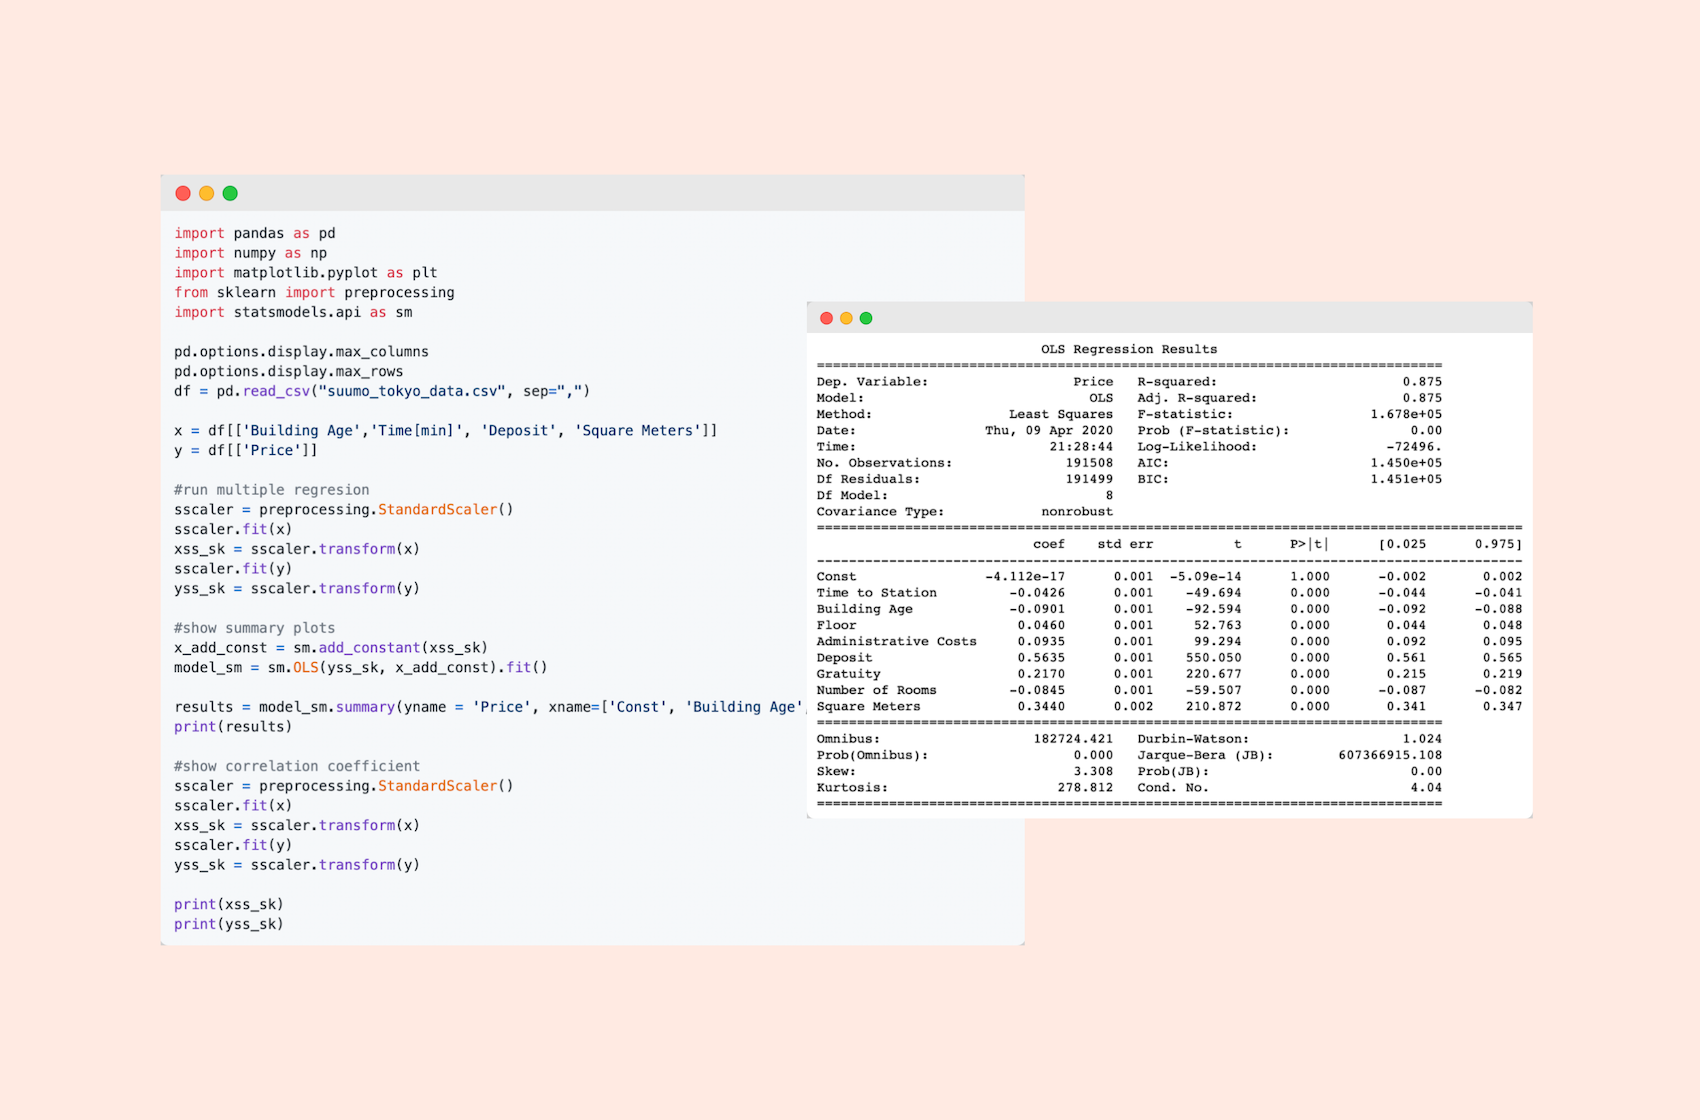
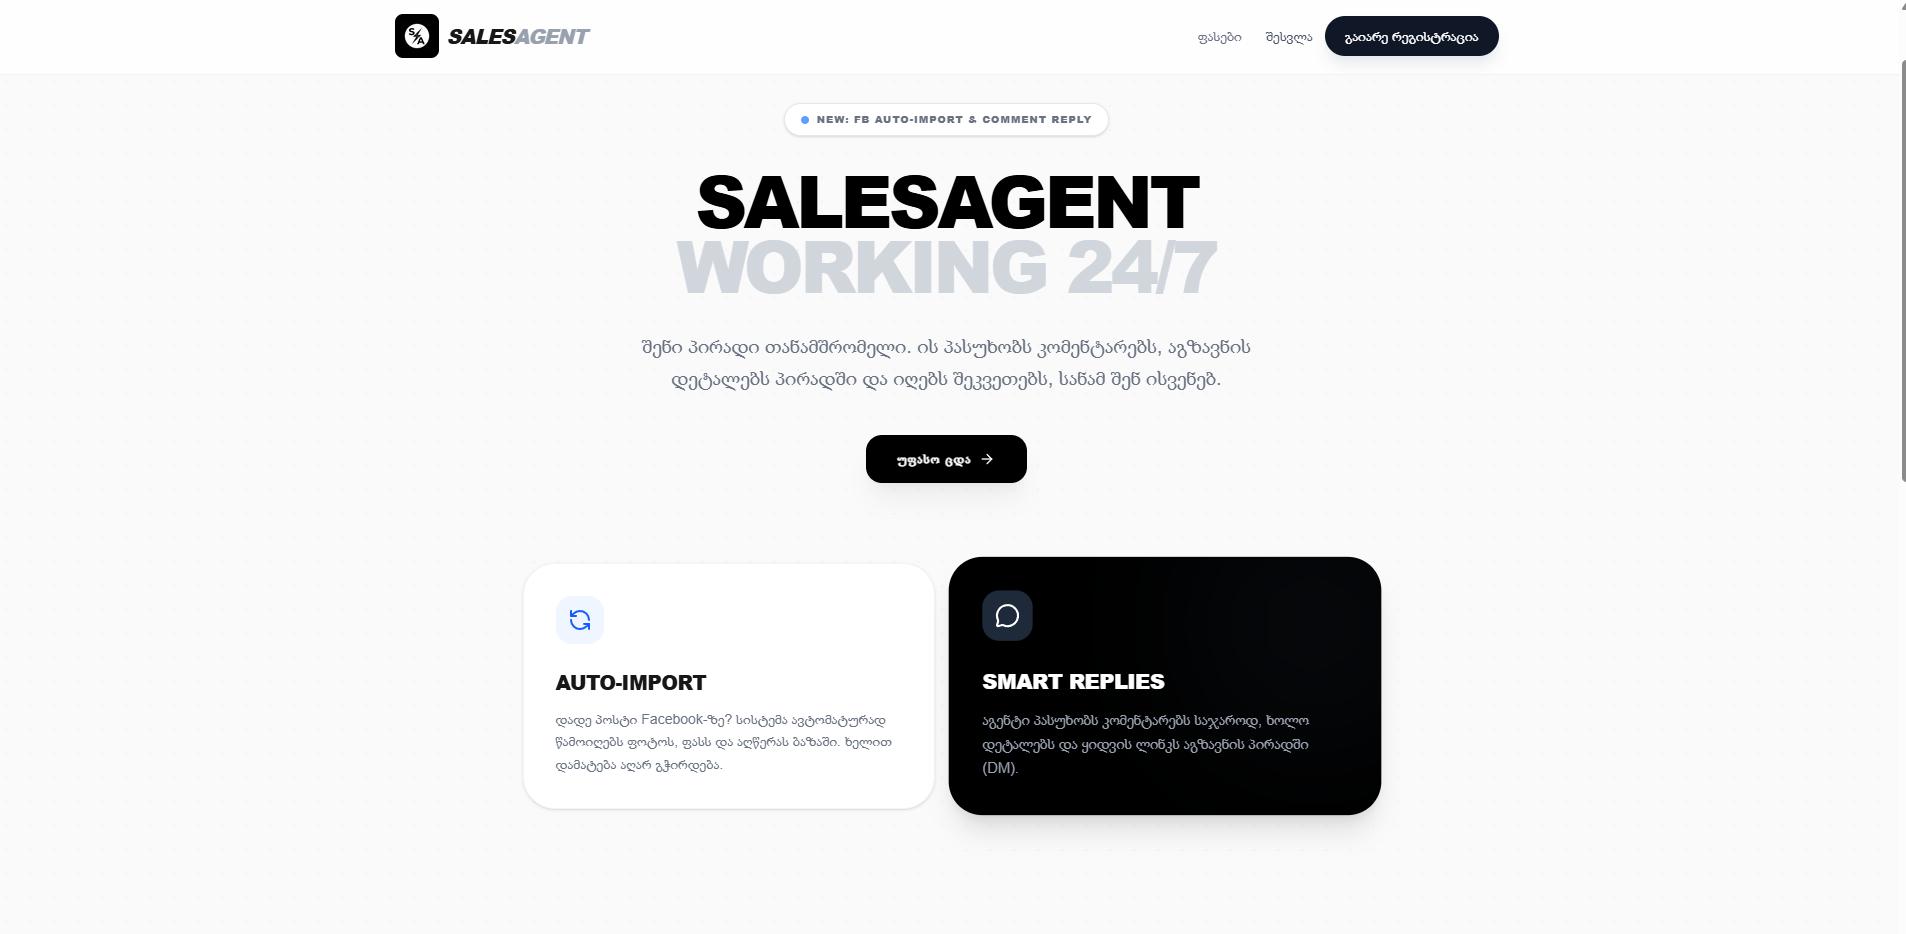
proj added

Changed region(s): [[0.0935, 0.1552, 0.9041, 0.9004], [0.0, 0.0, 1.0, 1.0], [0.0935, 0.8073, 0.1559, 0.8383]]

diff --git a/src/assets/styles/Main.scss b/src/assets/styles/Main.scss
@@ -1,171 +1,120 @@
+/* General fixes for dark mode and section */
 .dark-mode .about-section {
-  background-color: rgba(0, 0, 0, 0.2);
+  background-color: rgba(
+    0,
+    0,
+    0,
+    0.4
+  ); /* Slightly darker for better text contrast */
 }
 
 .about-section {
   display: flex;
   gap: 30px;
-  justify-content: flex-start;
+  justify-content: center; /* Changed from flex-start for better balance */
   align-items: center;
   width: 100%;
-  padding: 0px 15%;
-  min-height: 700px;
+  padding: 80px 10%; /* More balanced padding */
+  min-height: 100vh; /* Better than fixed 700px */
   background-image: url("../images/bg-dark.png");
   background-repeat: no-repeat;
   background-size: cover;
   background-attachment: fixed;
   background-position: center;
+  box-sizing: border-box;
 }
 
 .about-section .content {
   text-align: left;
   z-index: 2;
-
-  .social_icons {
-    display: flex;
-    flex-direction: row;
-    gap: 10px;
-    color: white;
-
-    svg {
-      font-size: 1.8em;
-    }
-  }
-
-  .mobile_social_icons {
-    display: none;
-  }
-
-  p {
-    font-size: 1.5em;
-    margin-block-start: 0px;
-    margin-block-end: 0px;
-  }
-
-  h1 {
-    font-size: 5em;
-    margin-block-start: 0px;
-    margin-block-end: 0px;
-  }
+  flex: 1;
 }
 
+/* Typography that scales */
+.about-section h1 {
+  font-size: clamp(
+    2.5rem,
+    8vw,
+    5rem
+  ); /* Minimum 2.5rem, scales with width, max 5rem */
+  line-height: 1.1;
+  margin: 0;
+}
+
+.about-section p {
+  font-size: clamp(1.1rem, 3vw, 1.5rem);
+  margin: 10px 0;
+}
+
+.social_icons {
+  display: flex;
+  gap: 15px;
+  margin-top: 15px;
+}
+
+.social_icons svg {
+  font-size: 1.8em;
+  color: white;
+  transition: transform 0.3s ease;
+}
+
+.social_icons svg:hover {
+  transform: translateY(-3px);
+}
+
+/* Image styling */
 .about-section .image-wrapper {
   position: relative;
-  display: inline-block;
+  display: flex;
+  justify-content: center;
+}
 
-  img {
-    width: 150px;
-    height: 150px;
-    border-radius: 50%;
-    object-fit: cover;
+.about-section .image-wrapper img {
+  width: clamp(150px, 25vw, 250px);
+  height: clamp(150px, 25vw, 250px);
+  border-radius: 50%;
+  object-fit: cover;
+  position: relative;
+  z-index: 2;
+}
+
+.about-section .image-wrapper::after {
+  content: "";
+  position: absolute;
+  top: -8px;
+  left: 50%;
+  transform: translateX(-50%);
+  width: calc(clamp(150px, 25vw, 250px) + 16px);
+  height: calc(clamp(150px, 25vw, 250px) + 16px);
+  border: 2px solid #ff0000;
+  border-radius: 50%;
+  z-index: 1;
+}
+
+/* Responsive Overrides */
+@media (max-width: 992px) {
+  .about-section {
+    padding: 100px 5%;
+    flex-direction: column-reverse; /* Put image on top for tablets/mobile */
+    text-align: center;
+    gap: 40px;
   }
 
-  &::after {
-    content: "";
-    position: absolute;
-    top: -5px;
-    left: -5px;
-    width: 160px;
-    height: 160px;
-    border: 1px solid #ff0000; /* outer circle */
-    border-radius: 50%;
-    z-index: 1;
+  .about-section .content {
+    text-align: center;
+    display: flex;
+    flex-direction: column;
+    align-items: center;
   }
 }
 
-.about p {
-  text-align: center;
-  padding-top: 30%;
-  padding-bottom: 30%;
-}
-
-@media screen {
-  @media (max-width: 567px) {
-    .nav-left {
-      padding-top: 20px;
-      float: left;
-    }
-
-    .nav-left img {
-      height: 35px;
-    }
-
-    .nav-right {
-      float: right;
-    }
-
-    .nav-right li {
-      padding: 10px 15px;
-      list-style: none;
-      font-size: 13px;
-      color: white;
-      width: 10%;
-    }
-
-    .nav-right ul {
-      list-style-type: none;
-      margin: 0px;
-      padding: 0px;
-    }
-
-    body {
-      width: 100%;
-    }
-
-    .about {
-      padding-left: 5%;
-      padding-right: 5%;
-      font-size: 12px;
-    }
+@media (max-width: 567px) {
+  .nav-right ul {
+    display: flex;
+    justify-content: flex-end;
   }
 
-  @media (max-width: 768px) {
-    .about-section h1 {
-      font-size: 4em !important;
-      text-align: left;
-    }
-
-    .about-section p {
-      text-align: left;
-    }
-
-    .container {
-      display: initial;
-    }
-
-    .social_icons {
-      display: none !important;
-    }
-
-    .mobile_social_icons {
-      padding-top: 10px;
-      display: flex !important;
-      flex-direction: row;
-      gap: 10px;
-      color: white;
-
-      svg {
-        font-size: 1.8em;
-      }
-    }
-
-    .about-section {
-      padding-top: 150px;
-      display: block;
-      padding-left: 0px;
-      padding-right: 0px;
-    }
-
-    .about-section .content {
-      width: 90%;
-      padding-left: 5%;
-      padding-right: 5%;
-      padding-bottom: 5%;
-    }
-
-    .about-section .image-wrapper {
-      padding-left: 5%;
-      width: 100%;
-    }
+  .about-section {
+    padding-top: 120px;
   }
 }

diff --git a/src/components/Project.tsx b/src/components/Project.tsx
@@ -1,4 +1,5 @@
 import React from "react";
+import mock04 from "../assets/images/mock04.png";
 import mock05 from "../assets/images/mock05.png";
 import mock06 from "../assets/images/mock06.png";
 import mock07 from "../assets/images/mock07.png";
@@ -14,6 +15,23 @@ function Project() {
     <div className="projects-container" id="projects">
       <h1>Personal Projects</h1>
       <div className="projects-grid">
+        <div className="project">
+          <a
+            href="salesagent.ge"
+            target="_blank"
+            rel="noreferrer"
+          >
+            <img src={mock04} className="zoom" alt="thumbnail" width="100%" />
+          </a>
+          <a
+            href="salesagent.ge"
+            target="_blank"
+            rel="noreferrer"
+          >
+            <h2>SalesAgent</h2>
+          </a>
+          <p>{t("salesagent")}</p>
+        </div>
         <div className="project">
           <a
             href="https://echonext-production.up.railway.app/"
